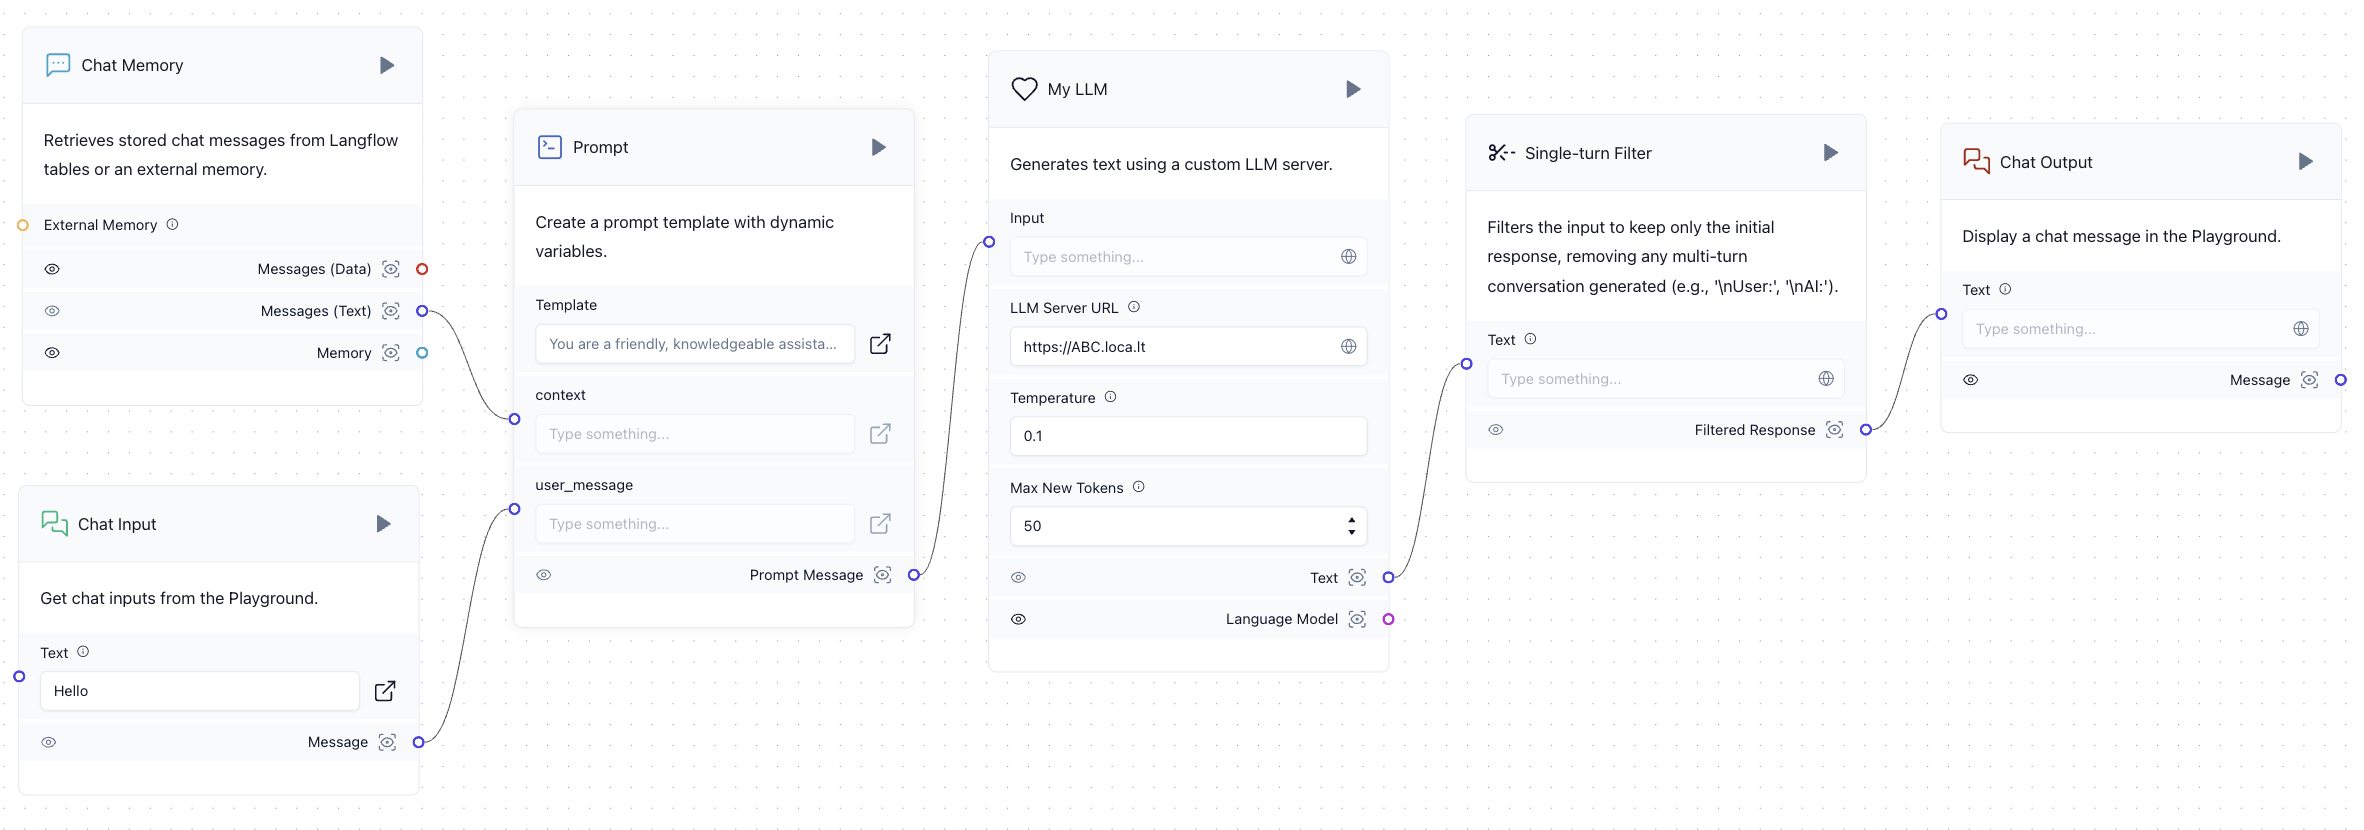
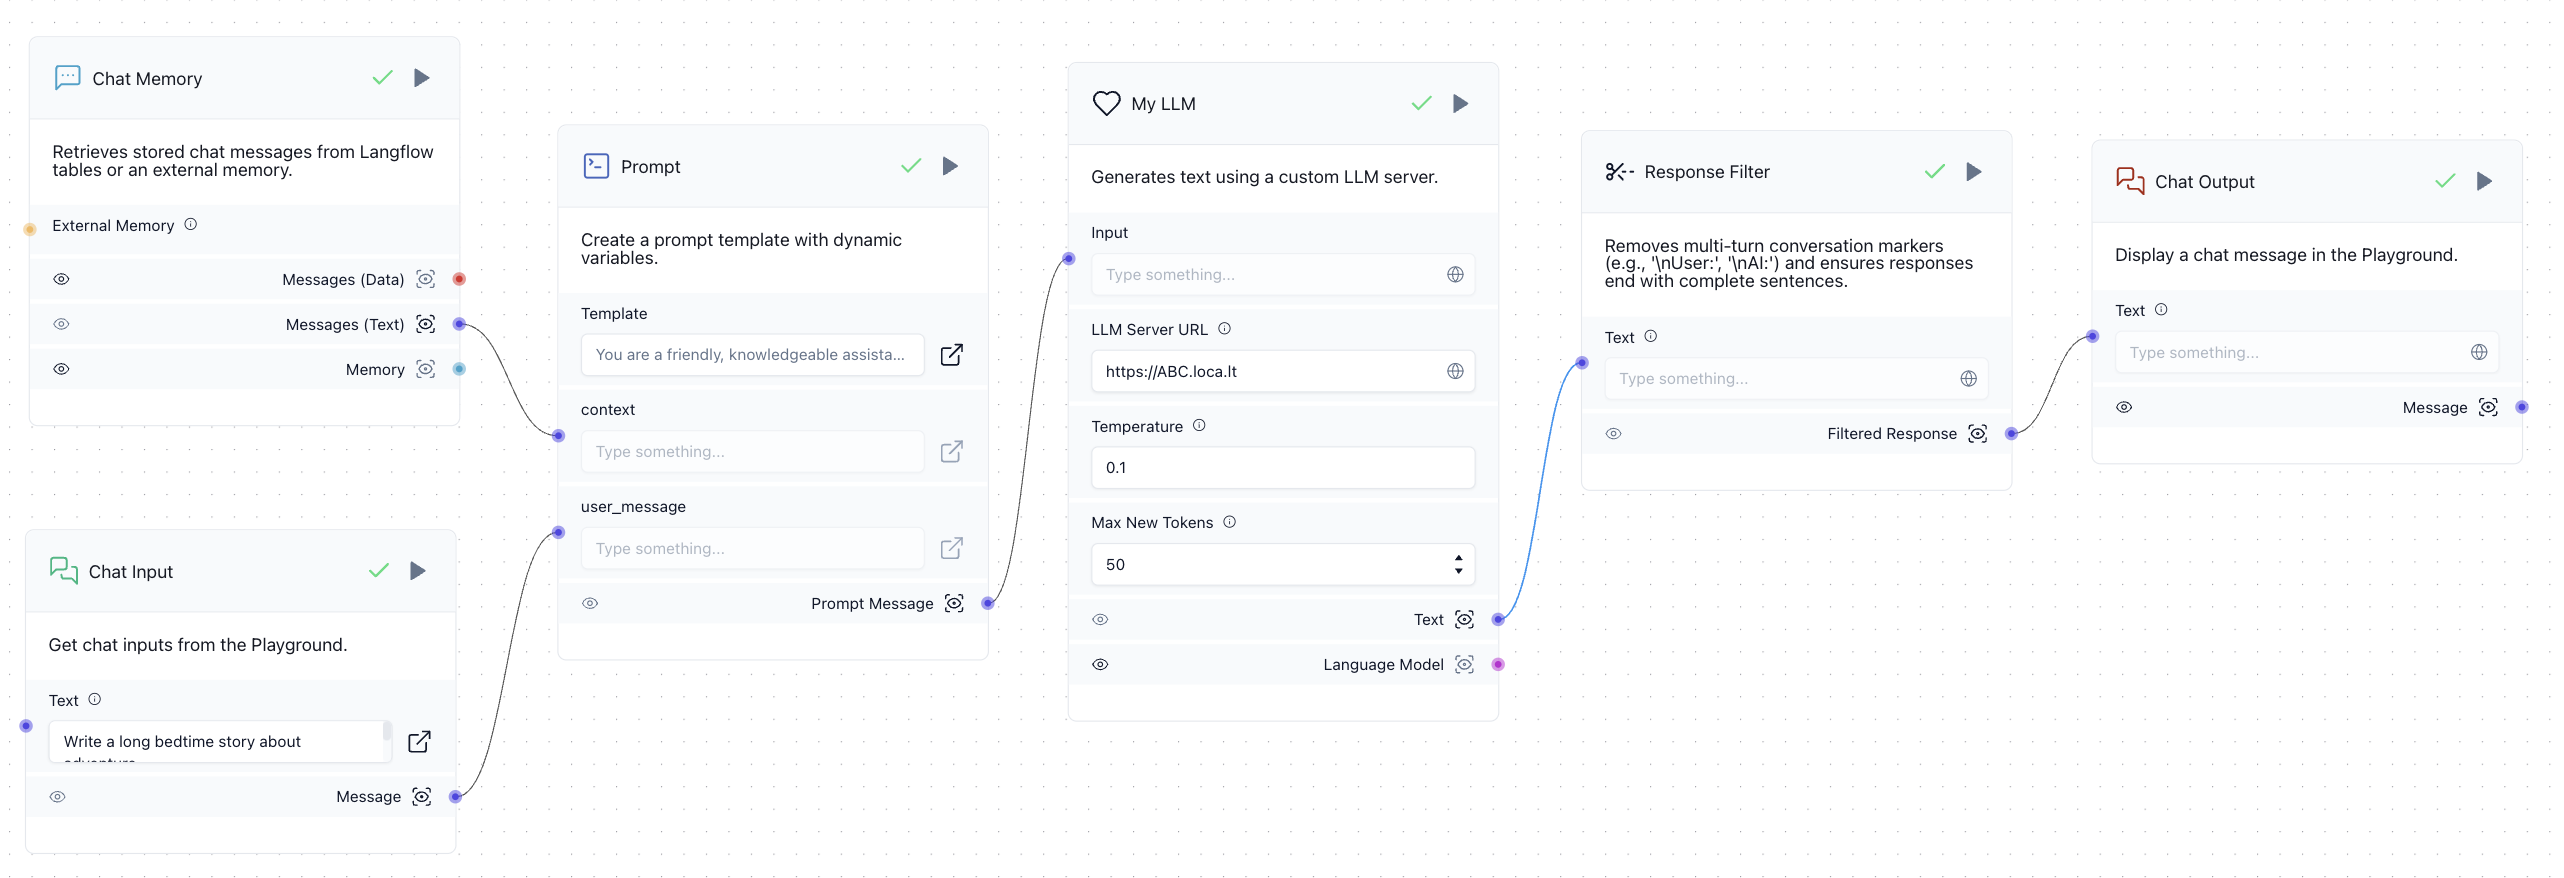
filter

diff --git a/04_LangflowBasic.md b/04_LangflowBasic.md
@@ -5,7 +5,7 @@ knowledge bases and multi-agent systems. We will start with a built-in template,
 **Components**, the fundamental units for building GenAI systems. We will also cover component customization, 
 which is essential for real applications with complex data and workflows. 
 
-The flow is saved at `flows/CustomMemoryChatbot.json` and can be uploaded to the LangFlow API.
+The flow is saved at `flows/ImprovedMemoryChatbot.json` and can be uploaded to the LangFlow API.
 
 # Creating and Exposing an LLM Server
 
@@ -232,7 +232,11 @@ After replacing the code, you will see the following component:
 Once you’ve added the public URL generated by running `lt --port 7777` to `LLM Server URL`, 
 the LLM is ready for use.
 
-### Single-turn Filter
+### Response Filter
+
+We post-process the LLM's response for two purposes:
+- To remove multi-turn conversation markers;
+- To ensure responses end with complete sentences.
 
 When used as a chatbot, autoregressive models may generate multiple conversational turns in a single response. 
 For example, if the input is:
@@ -255,6 +259,9 @@ To address this, we design a component to truncate the response at the first occ
 conversation markers (`"\nAI:"` or `"\nUser:"`). Alternatively, this behavior can also be implemented by 
 supplying the `stop` argument in our server.
 
+Meanwhile, if the response ends mid-sentence, we trim the incomplete portion to ensure a clean, coherent finish.
+
+
 To create this component, drag any element onto the whiteboard and replace its code with the following. 
 This code is designed to be straightforward and easy to follow.
 
@@ -264,10 +271,10 @@ from langflow.io import MessageTextInput, Output
 from langflow.schema.message import Message
 
 class SingleTurnFilterComponent(Component):
-    display_name = "Single-turn Filter"
-    description = "Filters the input to keep only the initial response, removing any multi-turn conversation generated (e.g., '\\nUser:', '\\nAI:')."
+    display_name = "Response Filter"
+    description = "Removes multi-turn conversation markers (e.g., '\\nUser:', '\\nAI:') and ensures responses end with complete sentences."
     icon = "scissors-line-dashed"
-    name = "SingleTurnFilter"
+    name = "ResponseFilter"
 
     inputs = [
         MessageTextInput(
@@ -284,9 +291,17 @@ class SingleTurnFilterComponent(Component):
     def filter(self) -> Message:
         # Access the input text directly
         text = self.text
-        
-        # Remove any multi-turn conversation markers, keeping only the initial response
-        filtered_response = text.split("\nUser:")[0].split("\nAI:")[0]
+
+        # Step 1: Remove multi-turn conversation markers, keeping only the initial response
+        filtered_response = text.split("\nUser:")[0].split("\nAI:")[0].strip()
+
+        # Step 2: Check for sentence-ending punctuation in the filtered response
+        sentence_endings = [".", "!", "?", "…", "..."]
+        if not any(filtered_response.endswith(p) for p in sentence_endings):
+            # If no sentence-ending punctuation, truncate to the last complete sentence
+            last_punctuation_index = max(filtered_response.rfind(p) for p in sentence_endings)
+            if last_punctuation_index != -1:
+                filtered_response = filtered_response[:last_punctuation_index + 1]
         
         # Set the component status and return the filtered response as a Message
         self.status = filtered_response
@@ -295,7 +310,7 @@ class SingleTurnFilterComponent(Component):
 
 After replacing the code, you should see a component like this:
 
-<img src="resources/lf_basic_single_turn.png" alt="single_turn" width="30%">
+<img src="resources/if_basic_response_filter.png" alt="single_turn" width="35%">
 
 Once all components are linked, our customized chatbot flow is complete:
 
